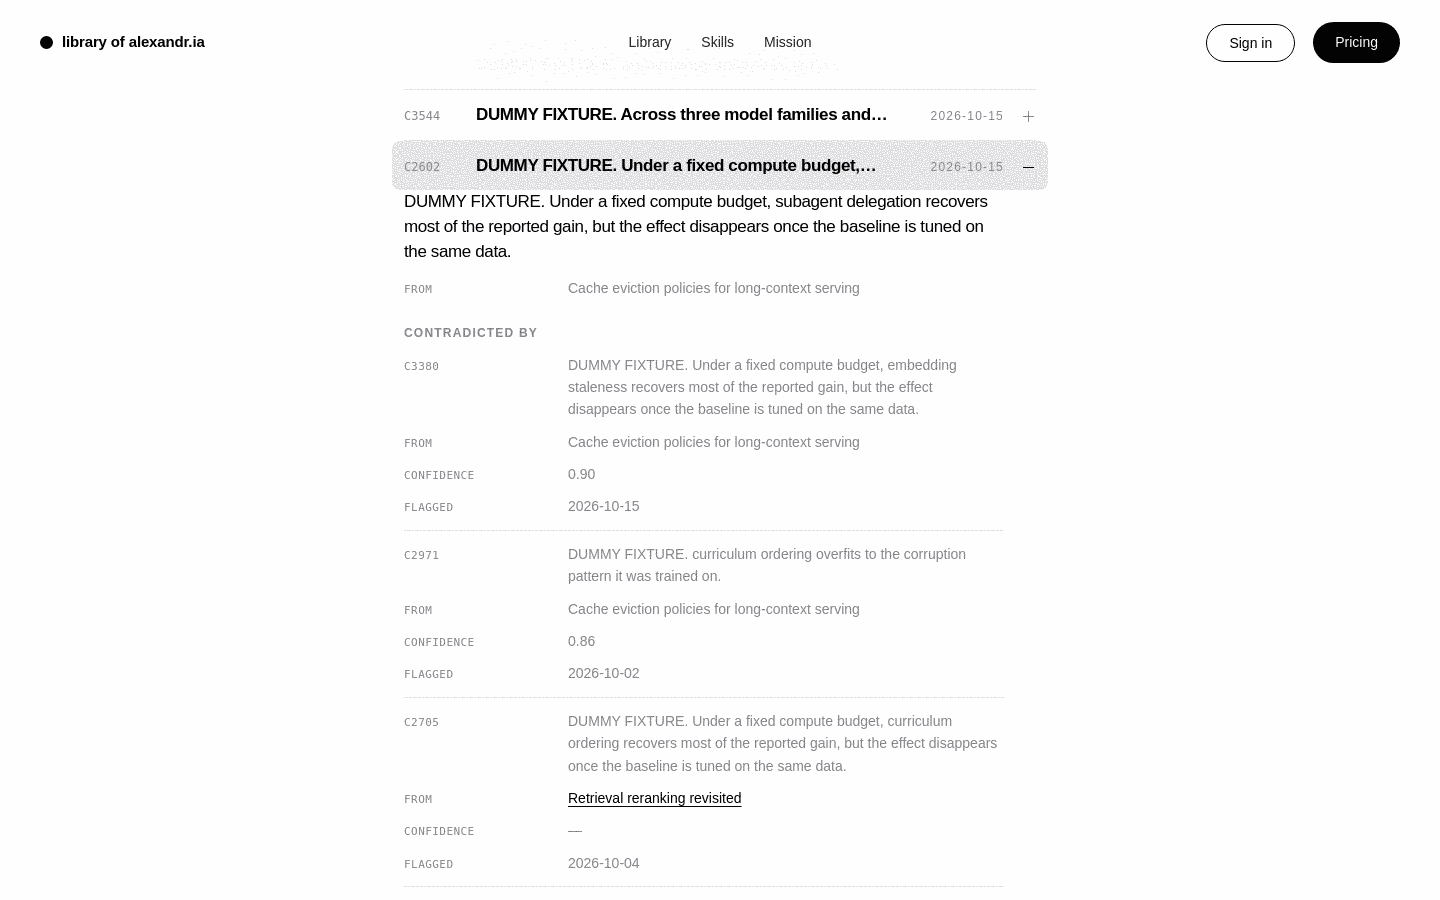
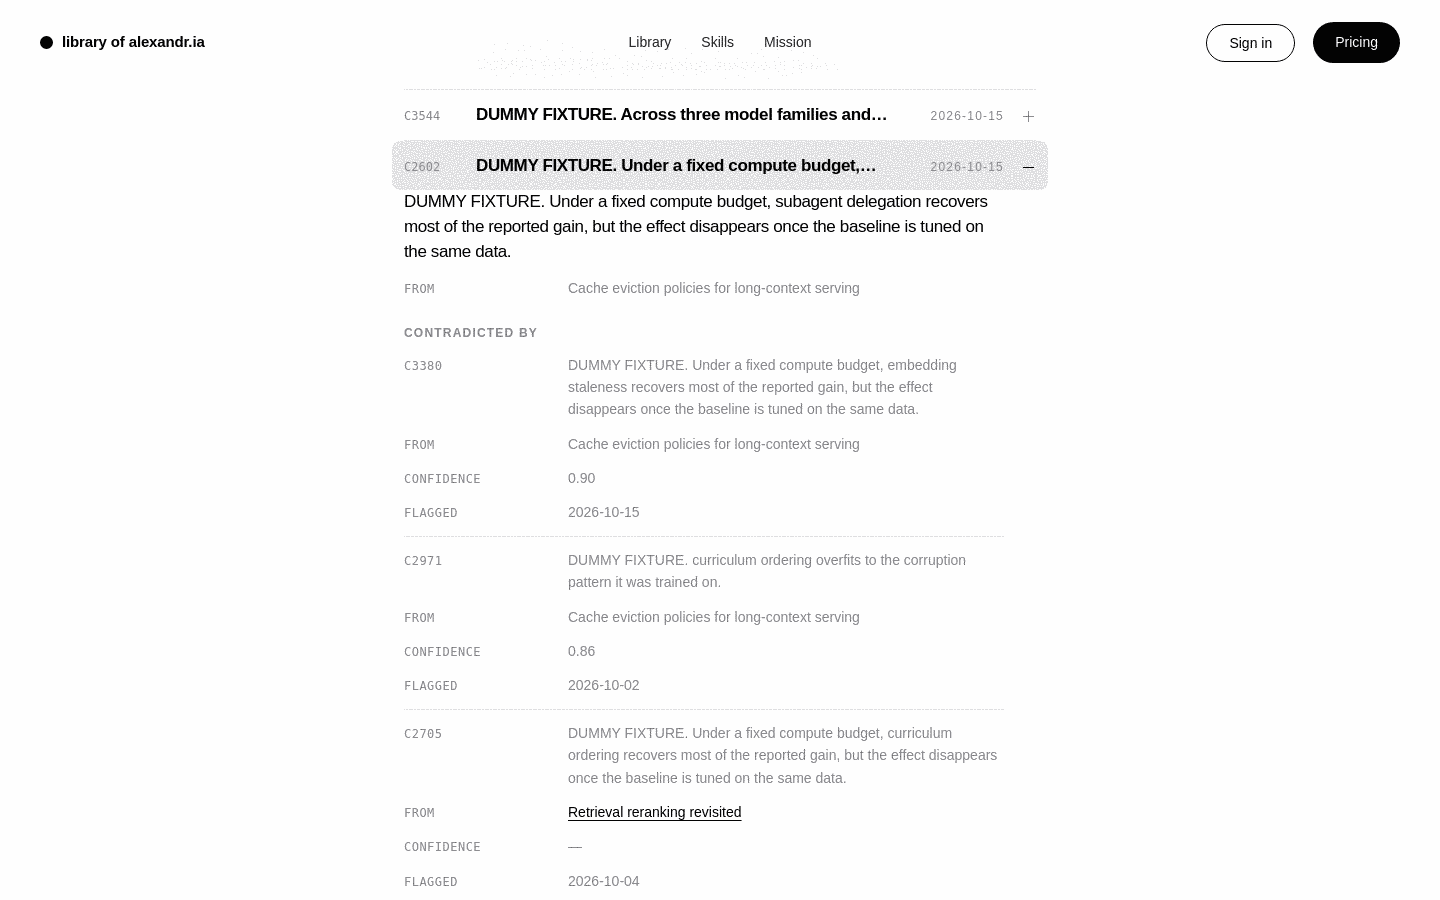
Bring the new page's type and spacing into the canon, and fix the guard that skipped itself
The canon says small print is 12 or 14 and never 11. The skill receipts had
carried 11 since September and this page copied it, which is how a value
outside the system spreads. Both move to 12.

serve.sh's new check asked ss for the pid on the port, and ss is not in the
agent container, so it skipped in silence. It asks ps instead.

diff --git a/site/app/globals.css b/site/app/globals.css
@@ -1538,8 +1538,13 @@ button.pill {
   align-items: baseline;
 }
 
+/* 12 and not 11. The canon's type scale says small print is 12 or 14 and
+   never 11, and this rule had carried 11 since the receipts shipped on
+   2026-09-29. Caught on 2026-10-15 while checking a new block that had copied
+   it, which is how an out-of-system value spreads: the second instance is
+   always justified by the first. */
 .skill-receipts dt {
-  font-size: 11px;
+  font-size: 12px;
   font-weight: 600;
   text-transform: uppercase;
   letter-spacing: 0.08em;
@@ -2622,7 +2627,7 @@ button.pill {
   color: var(--gray);
   max-width: 600px;
   display: grid;
-  gap: 10px;
+  gap: 12px;
 }
 
 .lb-against > div {
@@ -2634,7 +2639,7 @@ button.pill {
 
 .lb-against dt {
   font-family: ui-monospace, SFMono-Regular, Menlo, monospace;
-  font-size: 11px;
+  font-size: 12px;
   letter-spacing: 0.04em;
   text-transform: uppercase;
   color: var(--gray);
@@ -2725,13 +2730,13 @@ button.pill {
   /* The marker sits beside the metadata line rather than beside the finding,
      because the metadata is the first line of the row at this width. */
   .lb-line {
-    padding-right: 36px;
+    padding-right: 32px;
   }
 
   .lb-line::before,
   .lb-line::after {
     top: 21px;
-    right: 10px;
+    right: 12px;
   }
 
   .lb-against > div {

diff --git a/docs/design/reviews/2026-10-15/NOTES.md b/docs/design/reviews/2026-10-15/NOTES.md
@@ -138,6 +138,15 @@ through a patch, by an env hook in `site/lib/left-behind-live.js` that is
 consulted only when there is no connection string. A local patch would have
 meant the screenshots proved a code path that does not ship.
 
+## A note on the before and after frames
+
+At desktop and iPad the resting list is byte-identical before and after this
+run's changes, because both defects and the refinement only show on the phone
+or inside an open row. Those two duplicate frames are not committed; the
+`-before` frame that exists is `left-behind-iphone-before.png`, which is the
+one that differs. The changes that do not show in a full-page frame have their
+own isolated pairs, named below.
+
 ## Two defects, found by looking and fixed
 
 **1. The column labels wrapped into a stray row on the phone.**
